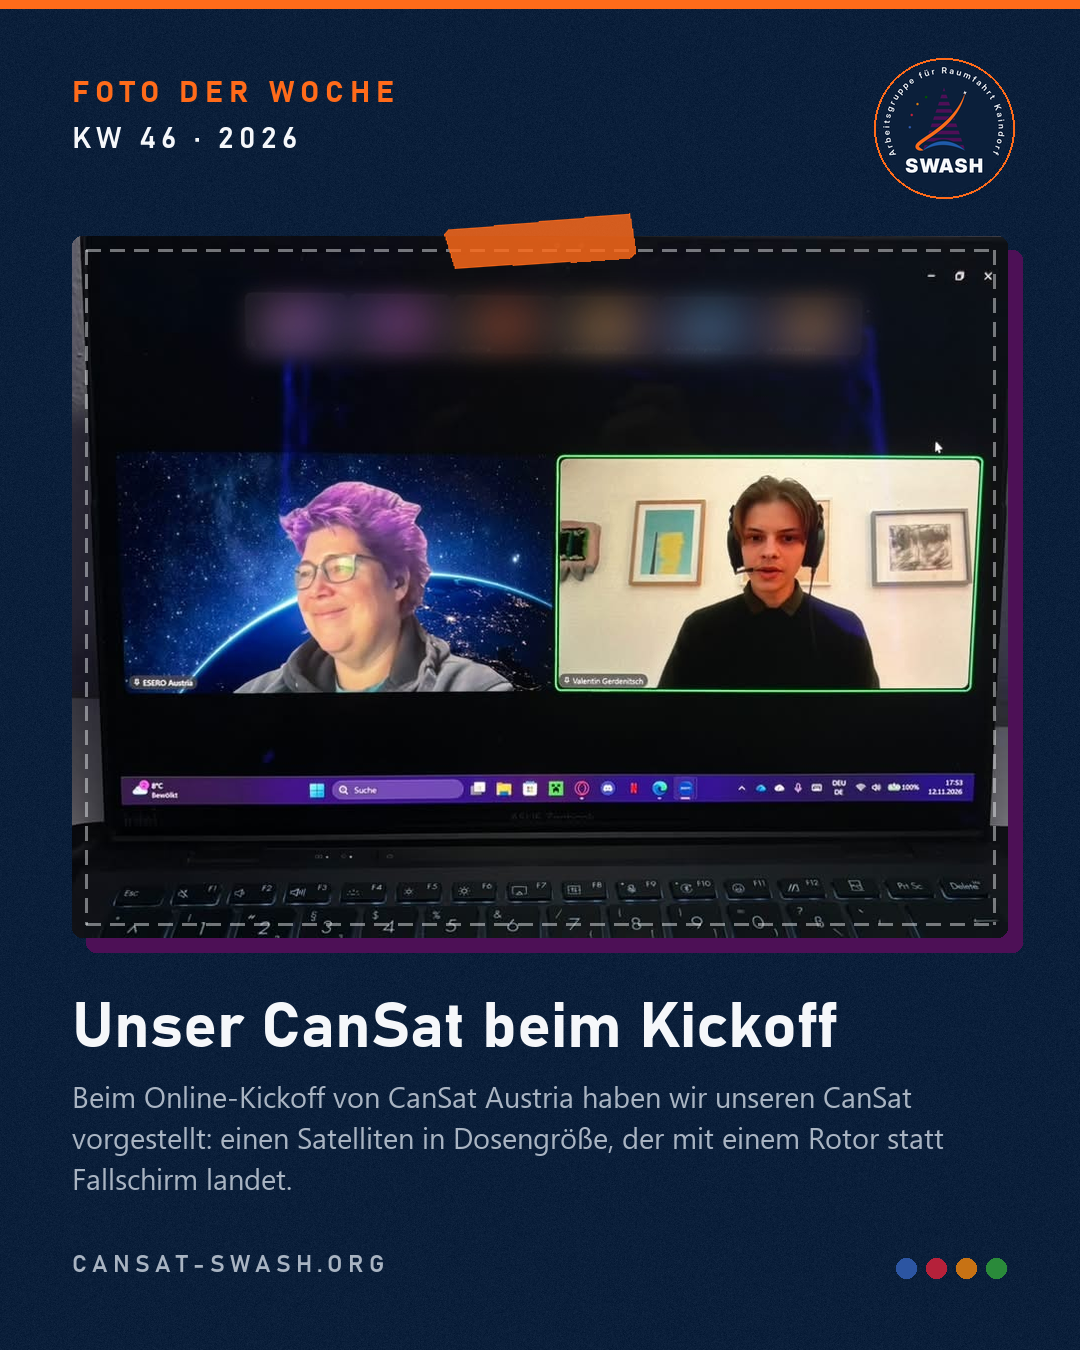
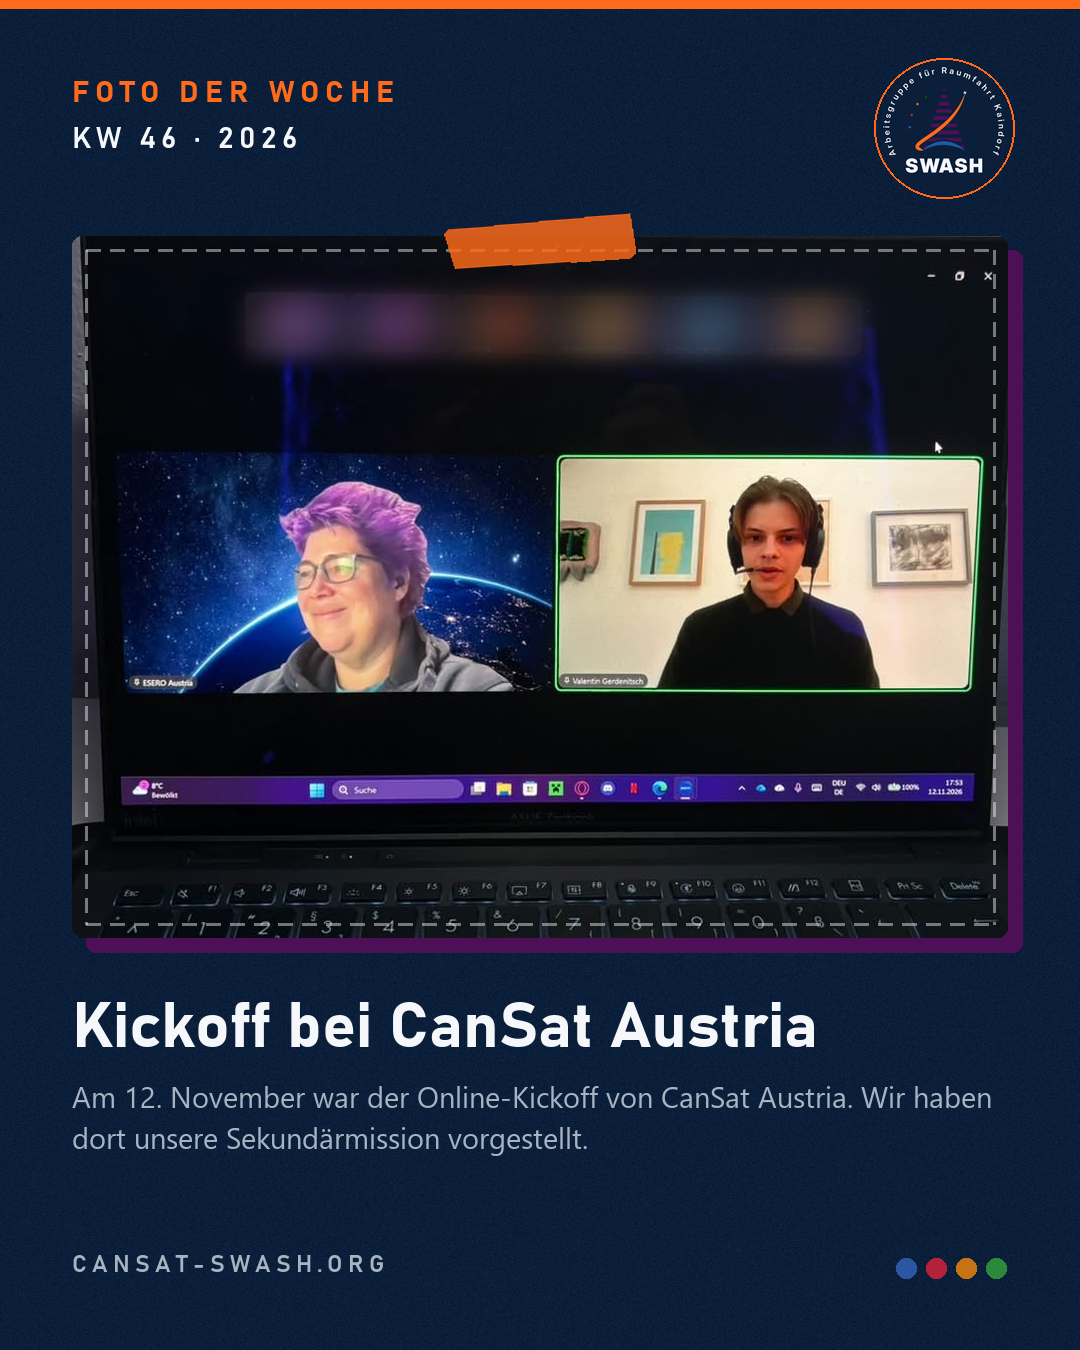
Foto der Woche KW 46: beim Kickoff nur die Sekundärmission vorgestellt
Text, Titel und Alt-Text korrigiert; die Grundbeschreibung des CanSat
muss nicht in jedes Wochenfoto (Regel in DESIGN-FOTO-DER-WOCHE.md).

Changed region(s): [[0.0611, 0.8089, 0.9167, 0.9022], [0.0611, 0.7156, 0.7944, 0.7778]]

diff --git a/assets/translations.js b/assets/translations.js
@@ -360,9 +360,9 @@ window.swashTranslations = {
   // WOCHENFOTO:START
   "Foto der Woche · KW 46": "Photo of the week · Week 46",
   "KW 46 · 2026": "Week 46 · 2026",
-  "Unser CanSat beim Kickoff": "Our CanSat at the kickoff",
-  "Beim Online-Kickoff von CanSat Austria haben wir unseren CanSat vorgestellt: einen Satelliten in Dosengröße, der mit einem Rotor statt Fallschirm landet.": "At the online kickoff of CanSat Austria we presented our CanSat: a satellite the size of a drink can that lands with a rotor instead of a parachute.",
-  "Laptop mit der Videokonferenz des Online-Kickoffs von CanSat Austria: links ESERO Austria, rechts stellt Valentin aus unserem Team mit Headset unseren CanSat vor": "Laptop showing the video call of the CanSat Austria online kickoff: ESERO Austria on the left, and on the right Valentin from our team presents our CanSat wearing a headset",
+  "Kickoff bei CanSat Austria": "Kickoff at CanSat Austria",
+  "Am 12. November war der Online-Kickoff von CanSat Austria. Wir haben dort unsere Sekundärmission vorgestellt.": "On 12 November, CanSat Austria held its online kickoff. We presented our secondary mission there.",
+  "Laptop mit der Videokonferenz des Online-Kickoffs von CanSat Austria: links ESERO Austria, rechts stellt Valentin aus unserem Team mit Headset unsere Sekundärmission vor": "Laptop showing the video call of the CanSat Austria online kickoff: ESERO Austria on the left, and on the right Valentin from our team presents our secondary mission wearing a headset",
   "Foto der Woche · KW 45": "Photo of the week · Week 45",
   "KW 45 · 2026": "Week 45 · 2026",
   "Zwei Platinen, eine Dose": "Two boards, one can",

diff --git a/en/foto-der-woche.html b/en/foto-der-woche.html
@@ -61,12 +61,12 @@
           <!-- ARCHIV:START -->
           <article class="weekly-entry" id="2026-kw46">
             <figure class="mission-image weekly-photo">
-              <div class="mission-image-frame"><img src="/assets/wochenfoto/2026-kw46.jpg" alt="Laptop showing the video call of the CanSat Austria online kickoff: ESERO Austria on the left, and on the right Valentin from our team presents our CanSat wearing a headset" width="940" height="705"></div>
+              <div class="mission-image-frame"><img src="/assets/wochenfoto/2026-kw46.jpg" alt="Laptop showing the video call of the CanSat Austria online kickoff: ESERO Austria on the left, and on the right Valentin from our team presents our secondary mission wearing a headset" width="940" height="705"></div>
             </figure>
             <div class="weekly-entry-text">
               <p class="eyebrow">Week 46 · 2026</p>
-              <h2>Our CanSat at the kickoff</h2>
-              <p>At the online kickoff of CanSat Austria we presented our CanSat: a satellite the size of a drink can that lands with a rotor instead of a parachute.</p>
+              <h2>Kickoff at CanSat Austria</h2>
+              <p>On 12 November, CanSat Austria held its online kickoff. We presented our secondary mission there.</p>
             </div>
           </article>
           <article class="weekly-entry" id="2026-kw45">

diff --git a/foto-der-woche.html b/foto-der-woche.html
@@ -61,12 +61,12 @@
           <!-- ARCHIV:START -->
           <article class="weekly-entry" id="2026-kw46">
             <figure class="mission-image weekly-photo">
-              <div class="mission-image-frame"><img src="assets/wochenfoto/2026-kw46.jpg" alt="Laptop mit der Videokonferenz des Online-Kickoffs von CanSat Austria: links ESERO Austria, rechts stellt Valentin aus unserem Team mit Headset unseren CanSat vor" width="940" height="705"></div>
+              <div class="mission-image-frame"><img src="assets/wochenfoto/2026-kw46.jpg" alt="Laptop mit der Videokonferenz des Online-Kickoffs von CanSat Austria: links ESERO Austria, rechts stellt Valentin aus unserem Team mit Headset unsere Sekundärmission vor" width="940" height="705"></div>
             </figure>
             <div class="weekly-entry-text">
               <p class="eyebrow">KW 46 · 2026</p>
-              <h2>Unser CanSat beim Kickoff</h2>
-              <p>Beim Online-Kickoff von CanSat Austria haben wir unseren CanSat vorgestellt: einen Satelliten in Dosengröße, der mit einem Rotor statt Fallschirm landet.</p>
+              <h2>Kickoff bei CanSat Austria</h2>
+              <p>Am 12. November war der Online-Kickoff von CanSat Austria. Wir haben dort unsere Sekundärmission vorgestellt.</p>
             </div>
           </article>
           <article class="weekly-entry" id="2026-kw45">

diff --git a/en/index.html b/en/index.html
@@ -113,8 +113,8 @@
           <!-- WOCHENFOTO:START -->
           <a class="weekly-link" href="/en/foto-der-woche">
             <figure class="mission-image weekly-photo">
-              <div class="mission-image-frame"><img src="/assets/wochenfoto/2026-kw46.jpg" alt="Laptop showing the video call of the CanSat Austria online kickoff: ESERO Austria on the left, and on the right Valentin from our team presents our CanSat wearing a headset" width="940" height="705"></div>
-              <figcaption><strong class="weekly-label">Photo of the week · Week 46</strong> Our CanSat at the kickoff<span class="weekly-more">All photos of the week</span></figcaption>
+              <div class="mission-image-frame"><img src="/assets/wochenfoto/2026-kw46.jpg" alt="Laptop showing the video call of the CanSat Austria online kickoff: ESERO Austria on the left, and on the right Valentin from our team presents our secondary mission wearing a headset" width="940" height="705"></div>
+              <figcaption><strong class="weekly-label">Photo of the week · Week 46</strong> Kickoff at CanSat Austria<span class="weekly-more">All photos of the week</span></figcaption>
             </figure>
           </a>
           <!-- WOCHENFOTO:END -->

diff --git a/index.html b/index.html
@@ -113,8 +113,8 @@
           <!-- WOCHENFOTO:START -->
           <a class="weekly-link" href="/foto-der-woche">
             <figure class="mission-image weekly-photo">
-              <div class="mission-image-frame"><img src="assets/wochenfoto/2026-kw46.jpg" alt="Laptop mit der Videokonferenz des Online-Kickoffs von CanSat Austria: links ESERO Austria, rechts stellt Valentin aus unserem Team mit Headset unseren CanSat vor" width="940" height="705"></div>
-              <figcaption><strong class="weekly-label">Foto der Woche · KW 46</strong> Unser CanSat beim Kickoff<span class="weekly-more">Alle Wochenfotos</span></figcaption>
+              <div class="mission-image-frame"><img src="assets/wochenfoto/2026-kw46.jpg" alt="Laptop mit der Videokonferenz des Online-Kickoffs von CanSat Austria: links ESERO Austria, rechts stellt Valentin aus unserem Team mit Headset unsere Sekundärmission vor" width="940" height="705"></div>
+              <figcaption><strong class="weekly-label">Foto der Woche · KW 46</strong> Kickoff bei CanSat Austria<span class="weekly-more">Alle Wochenfotos</span></figcaption>
             </figure>
           </a>
           <!-- WOCHENFOTO:END -->

diff --git a/social/DESIGN-FOTO-DER-WOCHE.md b/social/DESIGN-FOTO-DER-WOCHE.md
@@ -60,6 +60,8 @@ Optional: `"ausschnitte": ["x,y,breite,hoehe", null]` in Pixeln des Originalbild
 
 Für die Bildunterschrift gelten die Instagram-Regeln des Teams aus dem Haupt-Repo ([`outreach/video-guideline.md`](https://github.com/HerrrNielson/cansat-ark-swash/blob/main/outreach/video-guideline.md), Abschnitt 7, und [`outreach/DESIGN.md`](https://github.com/HerrrNielson/cansat-ark-swash/blob/main/outreach/DESIGN.md)). Fakten nur aus dem Repo oder vom Team bestätigt; ein 3D-Modell heißt „3D-Modell“, nicht „Foto“ oder „fertige Platine“.
 
+**Inhalt:** Der Text beschreibt, was auf dem Foto zu sehen ist und was in dieser Woche passiert ist. Den CanSat selbst (Satellit in Dosengröße, landet mit Rotor statt Fallschirm) müssen wir **nicht jedes Mal** erklären, das steht auf der Website. Und nur schreiben, was wirklich gezeigt oder gemacht wurde: Beim Kickoff in KW 46 haben wir z. B. nur die Sekundärmission vorgestellt, nicht den ganzen CanSat.
+
 **Anrede:** auf Instagram **„ihr“** (in `frage` und überall, wo die Leser angesprochen werden). Die Website-Texte (`titel`, `text`, `alt`) bleiben sachlich in der Wir-Form, weil sie auch auf der Website stehen, und dort gilt „Sie“.
 
 | Feld | Länge | Beispiel |
